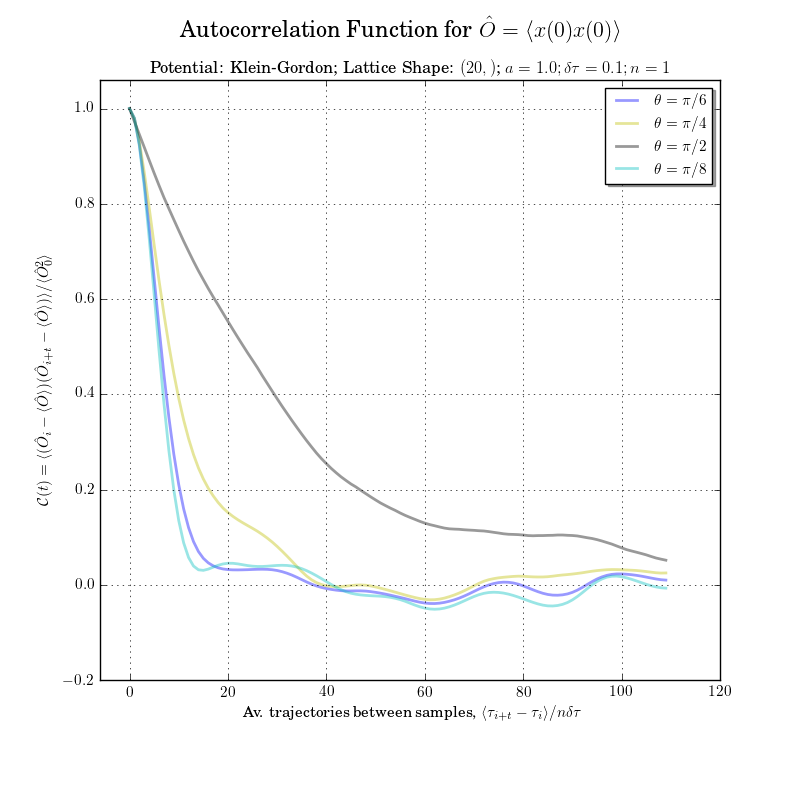
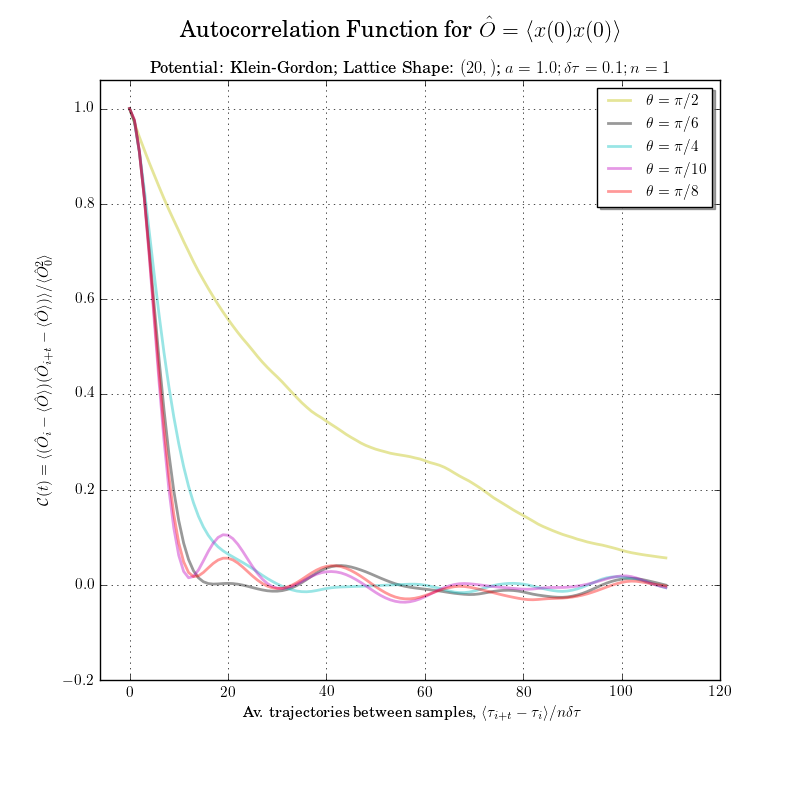
meeting

diff --git a/results/acorr1d_xx_khmc_kg.py b/results/acorr1d_xx_khmc_kg.py
@@ -16,8 +16,9 @@ step_size =   .1
 n_steps   =  1
 c_len     = 110
 
-mixing_angles = 1/np.arange(8,1,-2, dtype='float64')*np.pi
+mixing_angles = 1/np.arange(10,1,-2, dtype='float64')*np.pi
 angle_labels = [
+    r'$\theta = \pi/10$',
     r'$\theta = \pi/8$',
     r'$\theta = \pi/6$',
     r'$\theta = \pi/4$',
